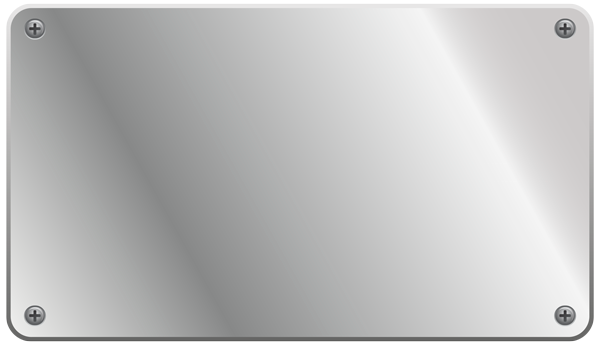
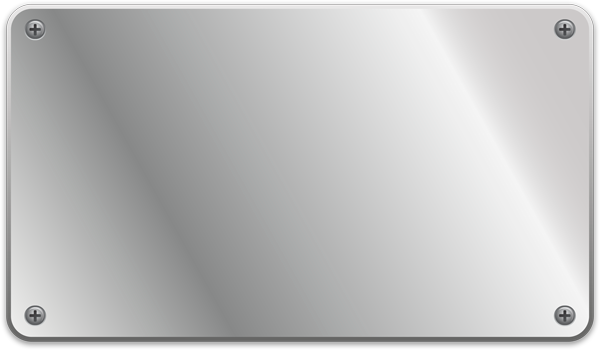
Fix home page for mobile (+ css)

Changed region(s): [[0.0, 0.029, 1.0, 1.0], [0.03, 0.0, 0.39, 0.029], [0.93, 0.058, 0.96, 0.087]]

diff --git a/assets/styles/front/book.scss b/assets/styles/front/book.scss
@@ -31,6 +31,7 @@
 
         img {
             border: 5px solid $color-border-slider;
+            box-shadow: $box-shadow-deeper;
             max-height: 80vh;
             max-width: 80vw;
         }
@@ -65,9 +66,9 @@
     .video-wrapper {
         align-items: center;
         background: url('../img/bg_metal_silver.png');
-        background-size: 400px 230px;
+        background-size: 400px 233px;
         display: flex;
-        height: 230px;
+        height: 233px;
         justify-content: center;
         margin: 1rem;
         width: 400px;

diff --git a/assets/scripts/front/book.js b/assets/scripts/front/book.js
@@ -62,10 +62,7 @@ class BookTabs {
      * Display videos tab.
      */
     showVideos() {
-        if (this.sliderTab) {
-            this.sliderTab.classList.remove('active');
-            this.glider.destroy();
-        }
+        this.sliderTab && this.sliderTab.classList.remove('active');
         this.videosTab.classList.add('active');
     };
 }

diff --git a/assets/styles/front/home.scss b/assets/styles/front/home.scss
@@ -105,6 +105,12 @@
             span {
                 padding: 0.5rem;
                 font-weight: bold;
+                text-transform: uppercase;
+            }
+
+            &:hover {
+                span {color: $color-text-active;}
+                img {border-color: $color-text-active;}
             }
         }
     }

diff --git a/assets/styles/front/common.scss b/assets/styles/front/common.scss
@@ -41,6 +41,7 @@ $text-shadow-darker: #242424 0.05rem 0.05rem 1px;
 
 $box-shadow: #858585 0 0.1rem 0.05rem;
 $box-shadow-darker: #242424 0 0.12rem 0.07rem;
+$box-shadow-deeper: #858585 0.3rem 0.3rem 0.5rem;
 $box-shadow-popup: #FAFAFA 0 0 14px;
 
 $transparent-background-black: rgba(0, 0, 0, 0.22);
